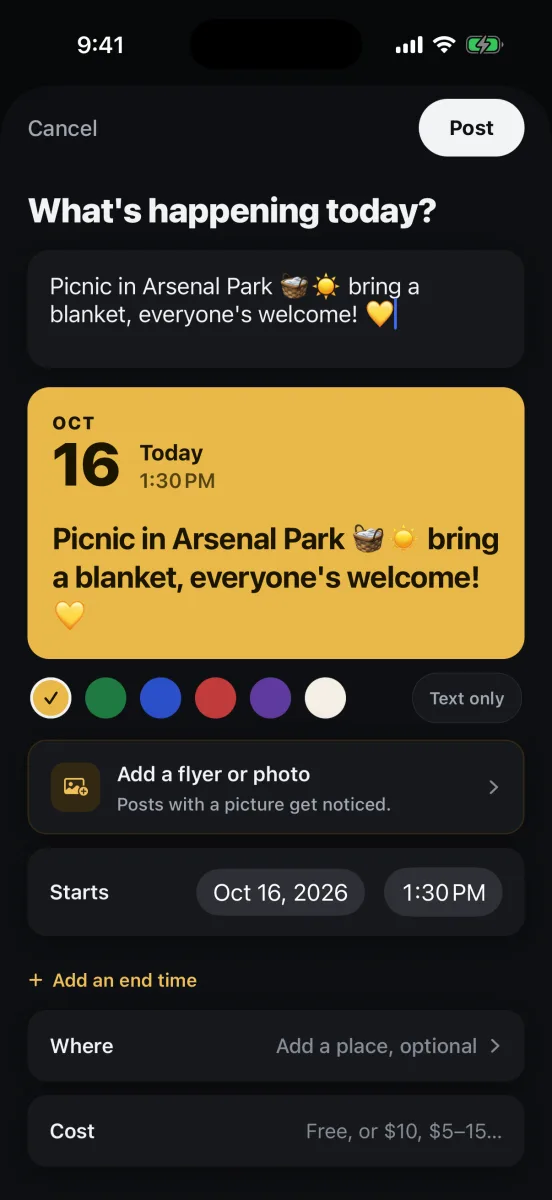
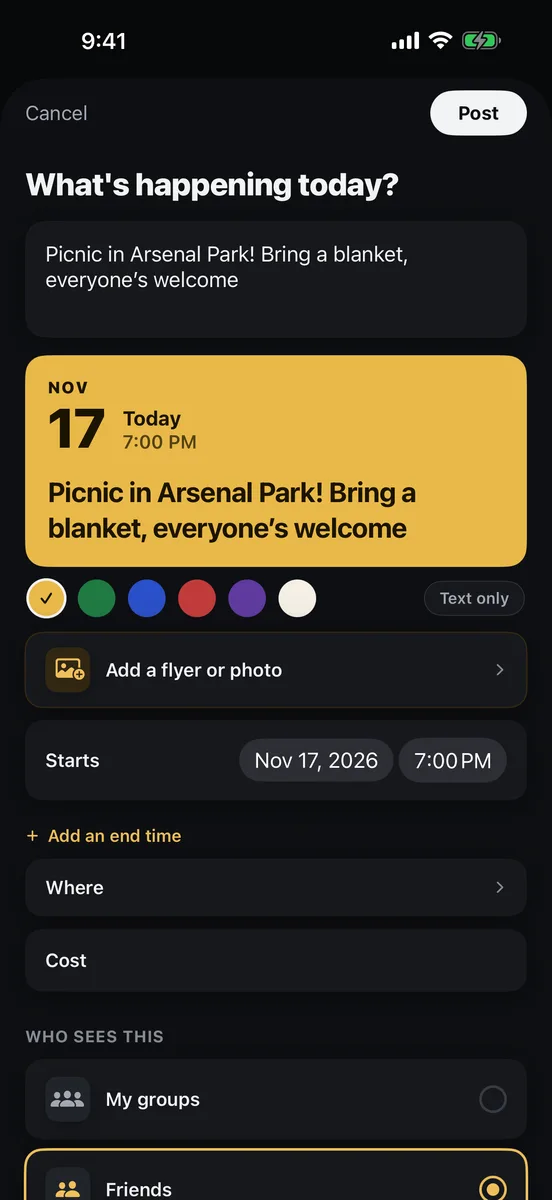
update screenshots, update donate link

diff --git a/index.html b/index.html
@@ -212,12 +212,12 @@ footer nav a { text-decoration: none; }
 
   <div class="shots">
     <figure>
-      <img src="/feed.webp?v=2" width="552" height="1200" loading="lazy"
-           alt="The Yinzlist feed for Lawrenceville, showing a show at Attack Theatre and a Mac Miller tribute at Thunderbird Cafe tonight.">
+      <img src="/feed.webp?v=3" width="552" height="1200" loading="lazy"
+           alt="The Yinzlist feed for Lawrenceville, showing the Lawrenceville Farmers Market and a forged wall hook workshop at Contemporary Craft today.">
       <figcaption>Your neighborhood</figcaption>
     </figure>
     <figure>
-      <img src="/find.webp?v=2" width="552" height="1200" loading="lazy"
+      <img src="/find.webp?v=3" width="552" height="1200" loading="lazy"
            alt="The Find screen: search, choices for when, what and where, and a map of Pittsburgh with event pins.">
       <figcaption>Your city</figcaption>
     </figure>
@@ -255,7 +255,7 @@ footer nav a { text-decoration: none; }
     </p>
 
     <figure class="shot-single">
-      <img src="/create.webp?v=2" width="552" height="1200" loading="lazy"
+      <img src="/create.webp?v=3" width="552" height="1200" loading="lazy"
            alt="Posting an event: a picnic in Arsenal Park, drawn as a gold flyer with the date large, with a start time, place, cost and who sees it.">
       <figcaption>Your own events</figcaption>
     </figure>
@@ -270,8 +270,8 @@ footer nav a { text-decoration: none; }
     </p>
 
     <figure class="shot-single">
-      <img src="/resources.webp?v=2" width="552" height="1200" loading="lazy"
-           alt="The Local resources screen with Food open: COMPASS and SNAP, each with who it is generally for, an Apply button and a phone number.">
+      <img src="/resources.webp?v=3" width="552" height="1200" loading="lazy"
+           alt="The Local resources screen: the winter shelter and LIHEAP open right now, then help by need, from food and housing to bills and health.">
       <figcaption>Resources</figcaption>
     </figure>
   </section>
@@ -281,7 +281,7 @@ footer nav a { text-decoration: none; }
     <p>
       Yinzlist is made by Jacob Makarsky, a software engineer here in Pittsburgh,
       through a nonprofit so it stays free.
-      <a href="/about/">More about us</a>
+      <a href="/about/">More about us</a> &middot; <a href="https://www.every.org/community-access-project?code=0677a642#/donate">Donate</a>
     </p>
   </section>
 
@@ -295,7 +295,7 @@ footer nav a { text-decoration: none; }
       <a href="https://communityaccessproject.org">Community Access Project</a>,
       a Pennsylvania nonprofit.
     </p>
-    <nav><a href="/about/">About</a><a href="/privacy/">Privacy</a><a href="/terms/">Terms</a></nav>
+    <nav><a href="/about/">About</a><a href="https://www.every.org/community-access-project?code=0677a642#/donate">Donate</a><a href="/privacy/">Privacy</a><a href="/terms/">Terms</a></nav>
   </div>
 </footer>
 

diff --git a/about/index.html b/about/index.html
@@ -161,7 +161,7 @@ footer a { color: var(--gold); }
     <a href="https://communityaccessproject.org">Community Access Project</a>,
     a Pennsylvania nonprofit corporation.
   </p>
-  <p><a href="/privacy/">Privacy</a></p>
+  <p><a href="https://www.every.org/community-access-project?code=0677a642#/donate">Donate</a> &middot; <a href="/privacy/">Privacy</a></p>
 </footer>
 
 </body>
